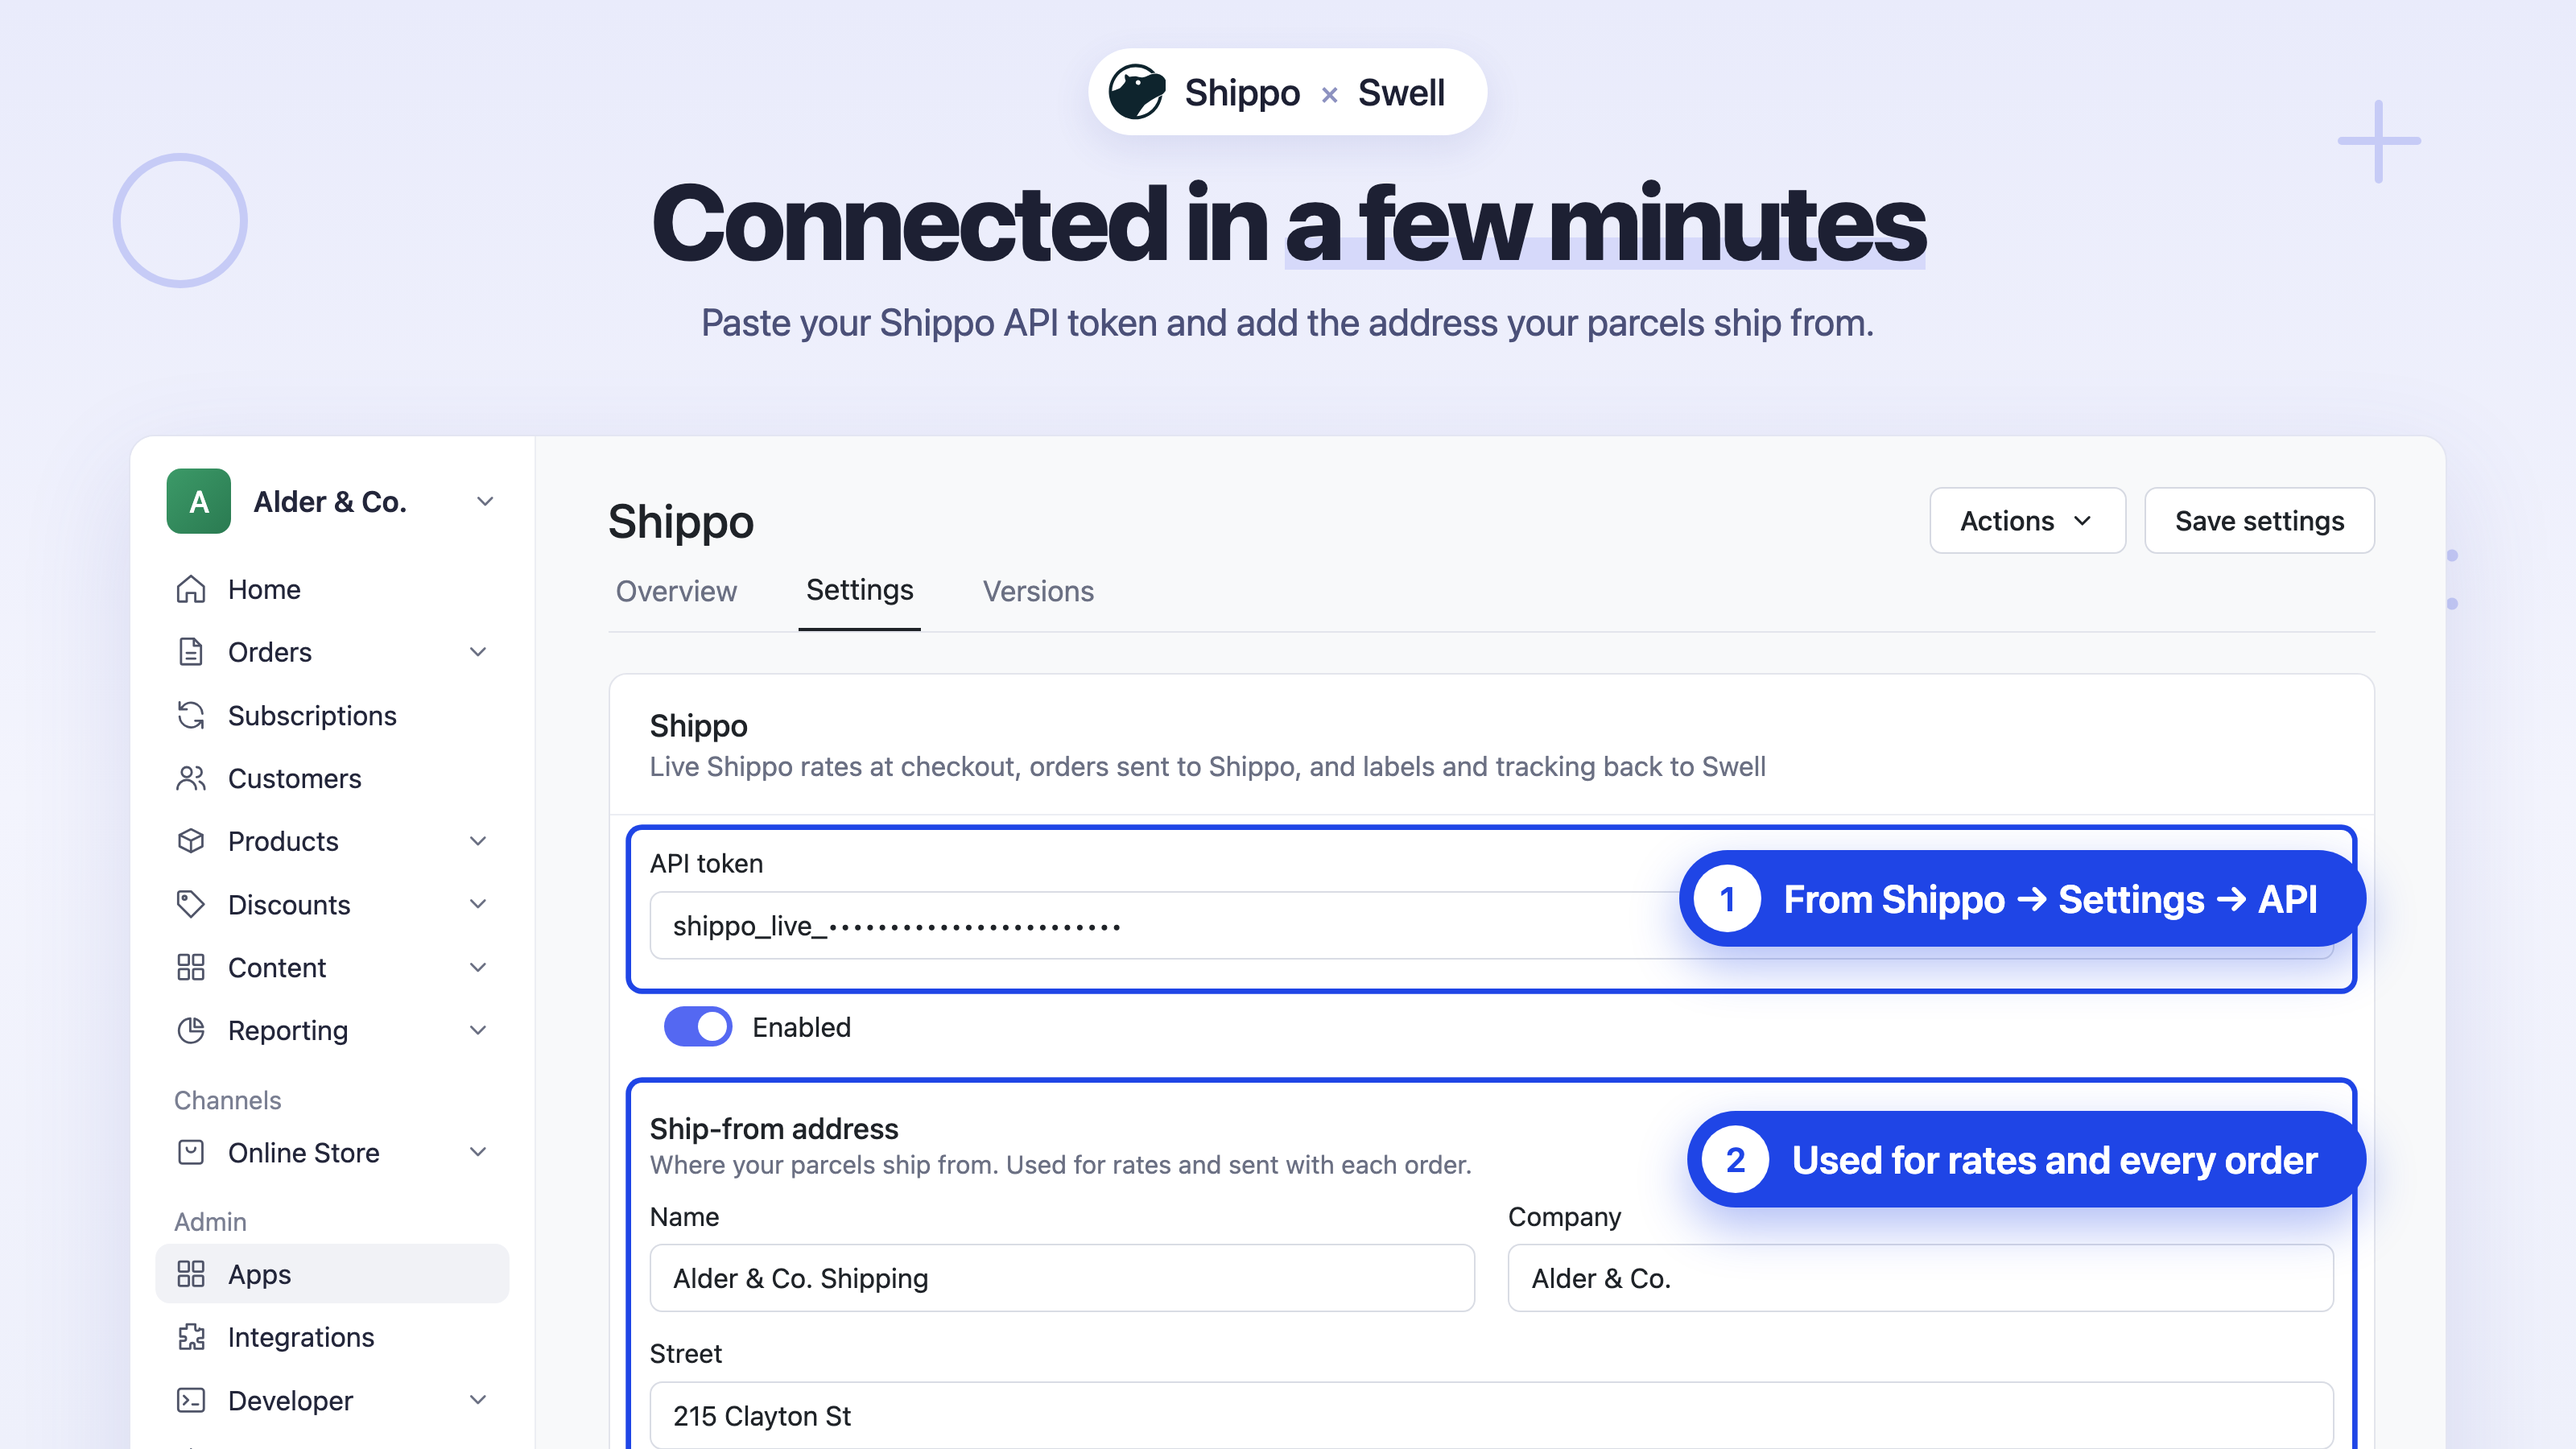
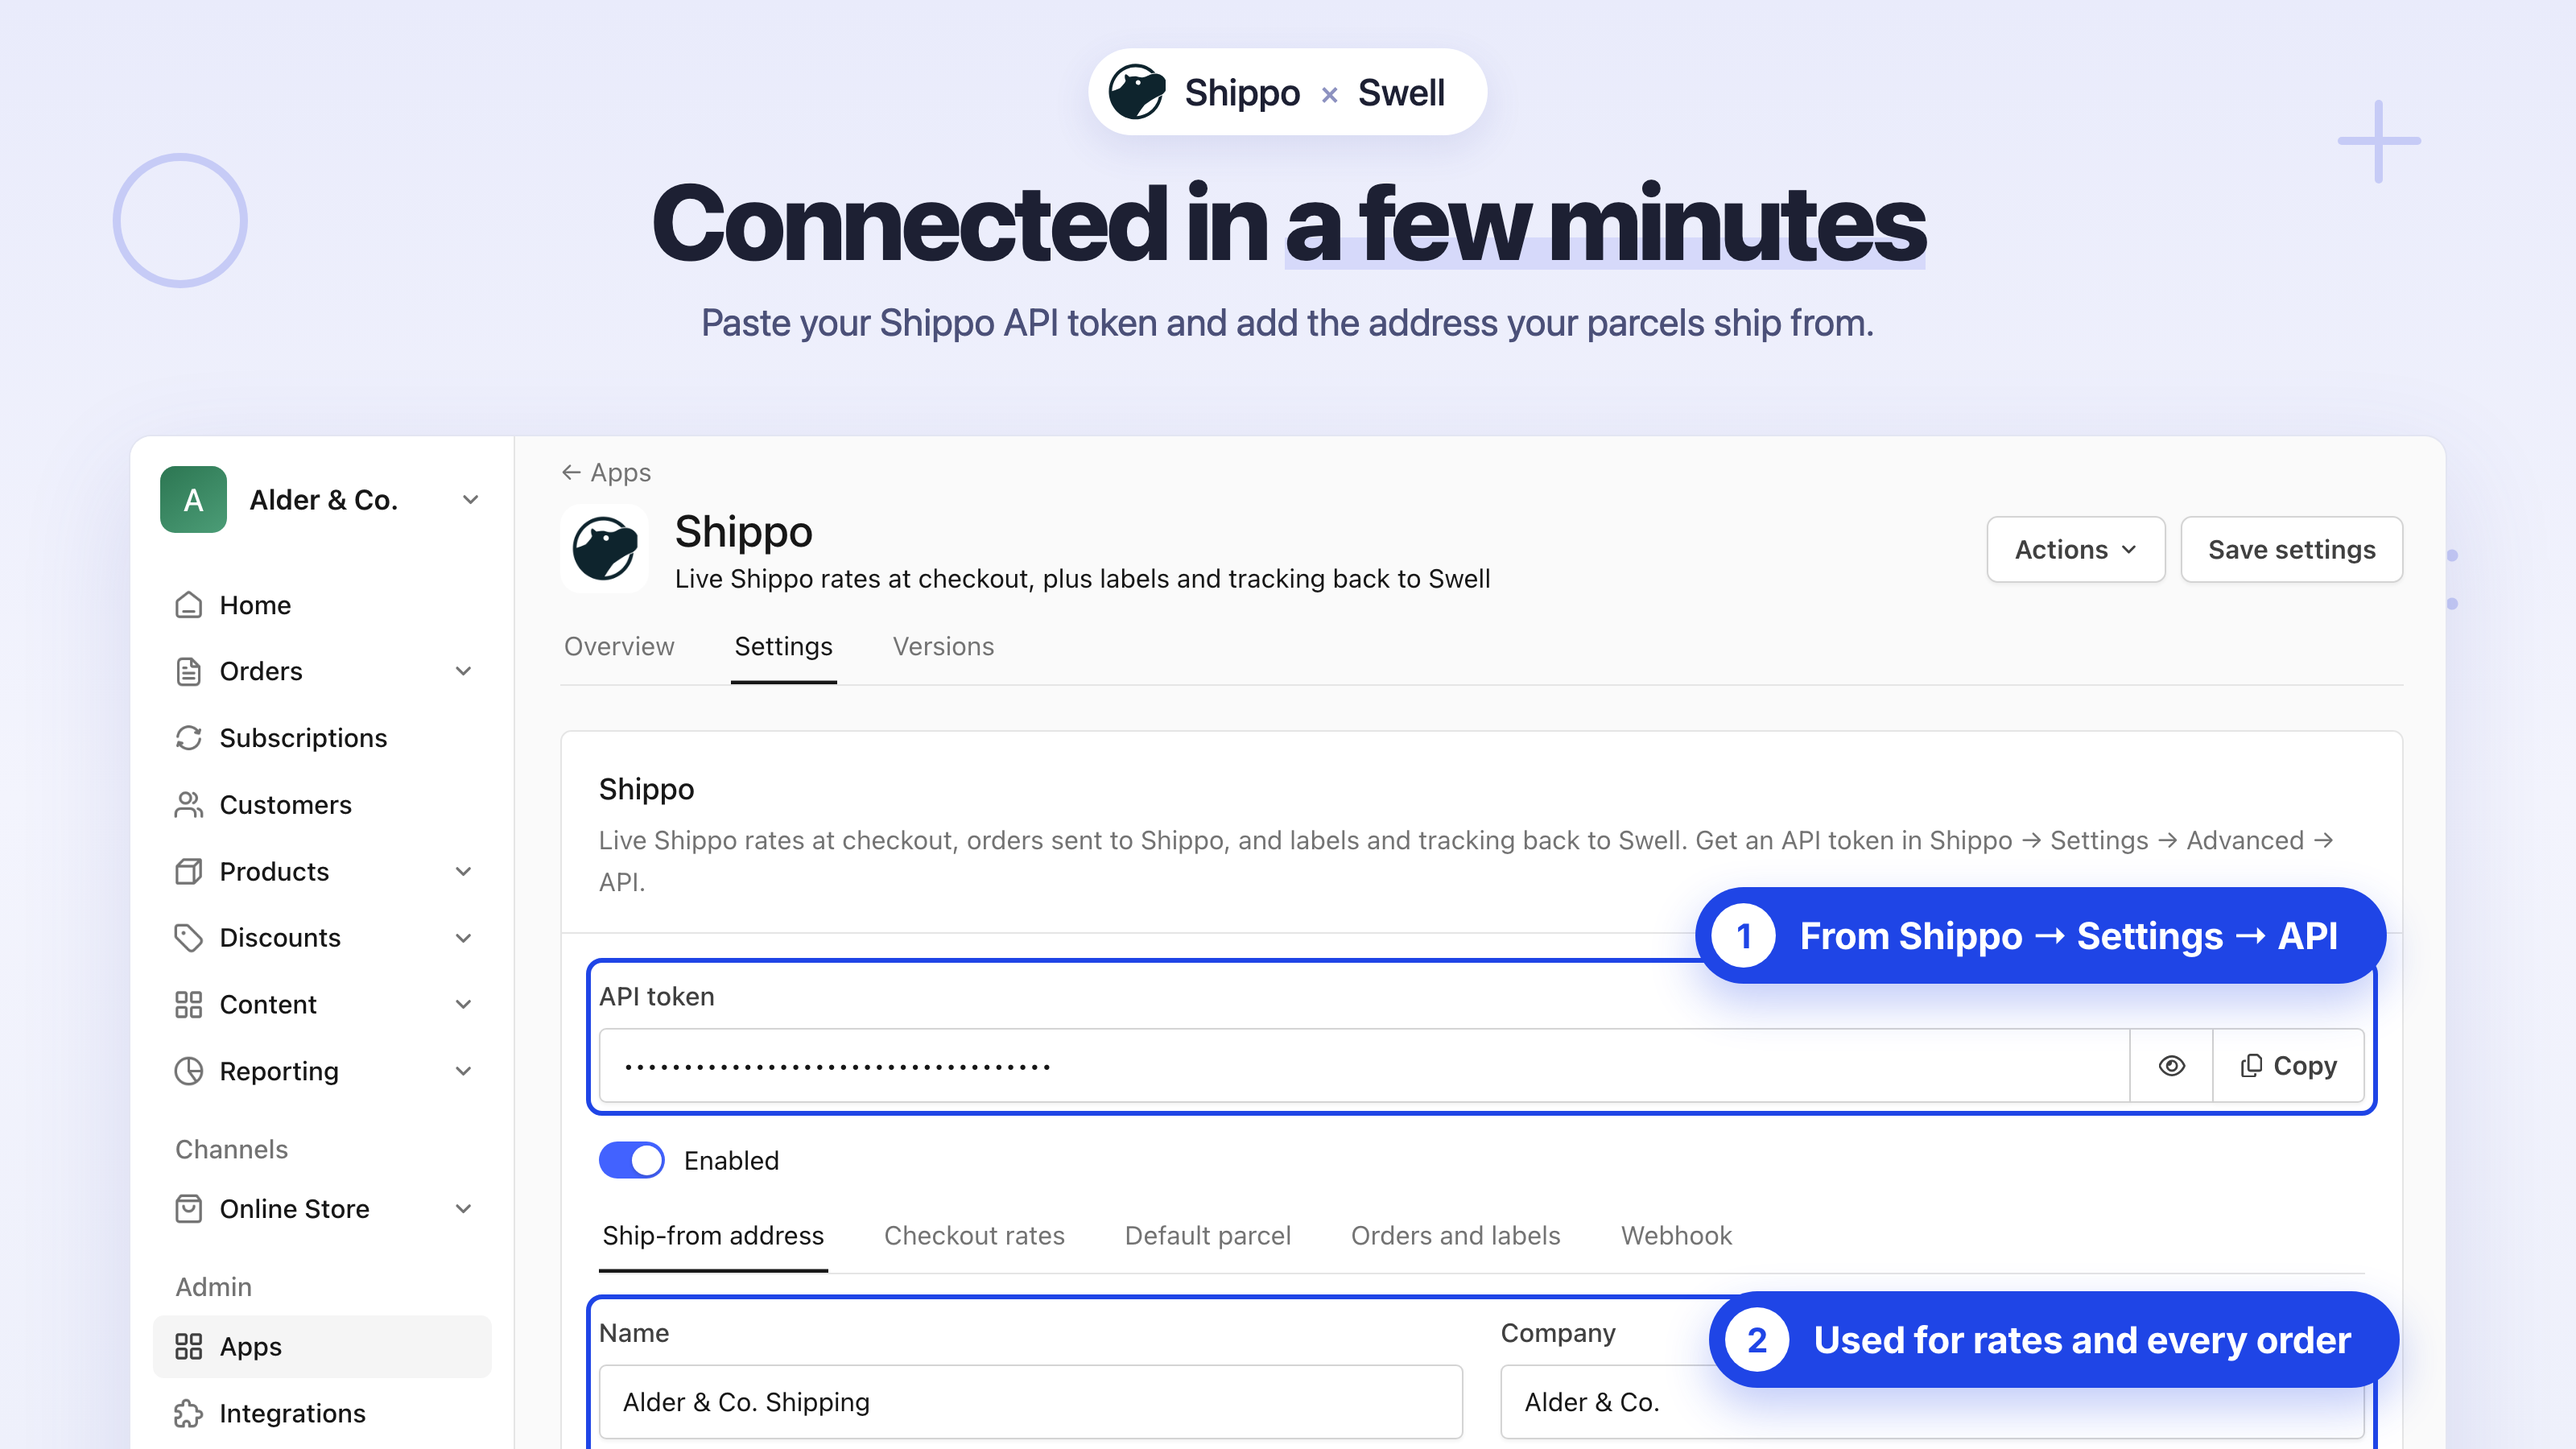
Prepare the App Store listing and link the app guide
- Image 1 shows the settings page as the dashboard draws it: the app
  header with icon and tagline, the API token as a masked secret field,
  and the field groups as tabs. Sergey's frame, headline and callouts
  are kept
- Image 3: the placeholder customer "One More" is now "Olivia Moore"
- Image 4: drops the empty Error label, which the dashboard hides when
  there's no error
- API token and Webhook secret use the secret field type, so the
  dashboard masks them
- Adds DESCRIPTION.md in the other Swell apps' style, and the 1200x630
  social card assets/image.png
- Sets price_external, since the app needs a Shippo account
- documentation_url points to developers.swell.is/app-guides/shippo

The listing and guide leave out the webhook for now: the function
gateway drops the query string when Shippo posts a JSON body, so the
?token= check rejects every real webhook.

diff --git a/DESCRIPTION.md b/DESCRIPTION.md
@@ -1,0 +1,11 @@
+Show your customers live Shippo carrier rates at checkout, and send paid orders to Shippo's Orders page, where you buy labels. When a label is bought, the order is fulfilled in Swell with the carrier and tracking number.
+
+Connect Shippo with an API token, add the address your parcels ship from, and turn on Shippo in Settings → Shipping. Rates come from the carrier accounts in your Shippo account, your own or Shippo's built-in ones.
+
+- **Live rates at checkout.** Every Shippo service, such as USPS Priority Mail or UPS Ground, becomes a checkout option with its price and estimated delivery days. Limit the carriers and services, and add a markup or a handling fee.
+- **Orders ready for a label.** Paid orders, or submitted ones if you choose, go to Shippo with the address, items, weights and the service the customer chose.
+- **Fulfilled when the label is bought.** The app checks for new labels every 15 minutes, or right away when you choose Check for labels now, and creates the Swell shipment with the carrier and tracking number.
+- **Shippo status on every order.** A Shippo tab shows the status, carrier, tracking number, tracking page and label link, and the order list shows each order's Shippo status.
+- **Send any recent order.** Send an order placed before you installed the app, or one that failed to send, with Send to Shippo on the order page.
+
+Setup takes a few minutes. In Shippo, copy an API token from Settings → Advanced → API. In Swell, enter it in the app settings with your ship-from address and default parcel size, run Test connection, then turn on Shippo in Settings → Shipping and save.
